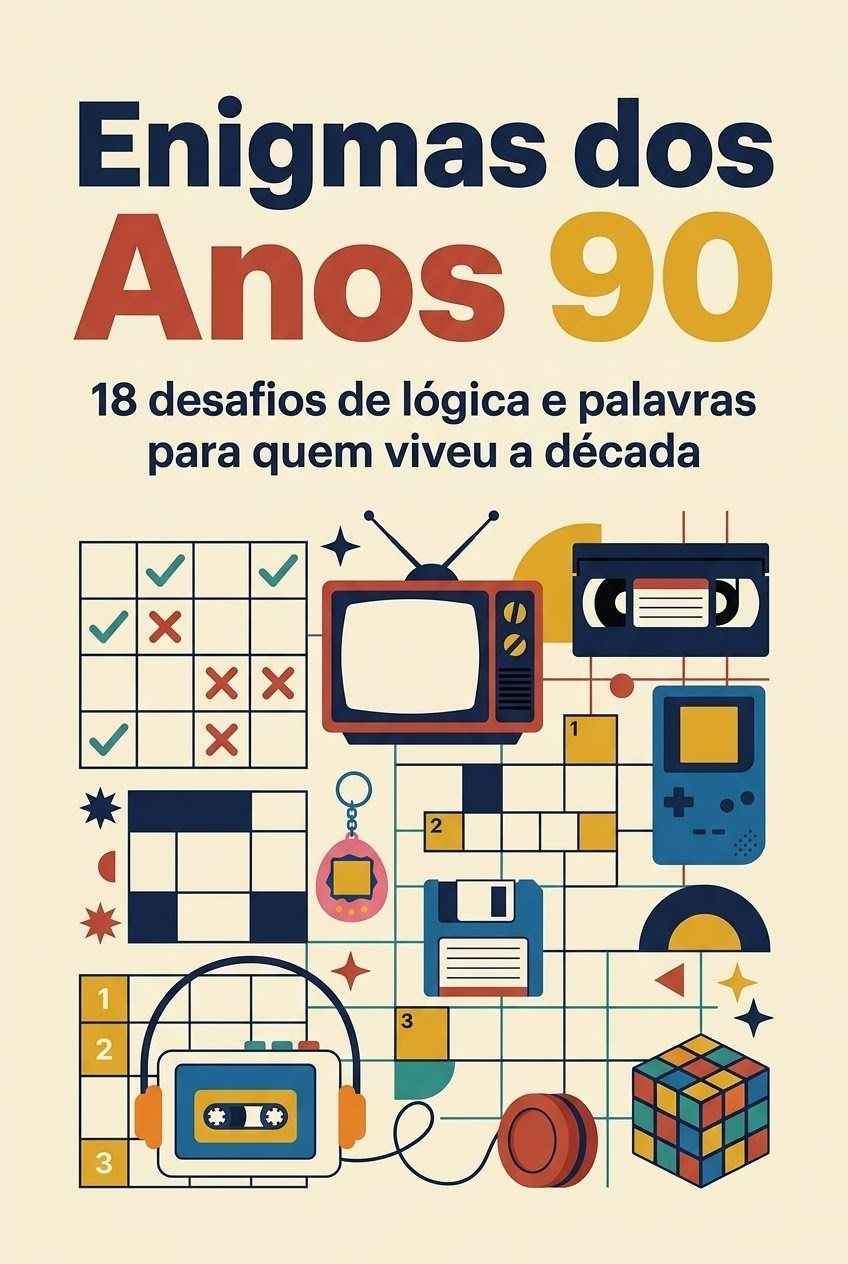
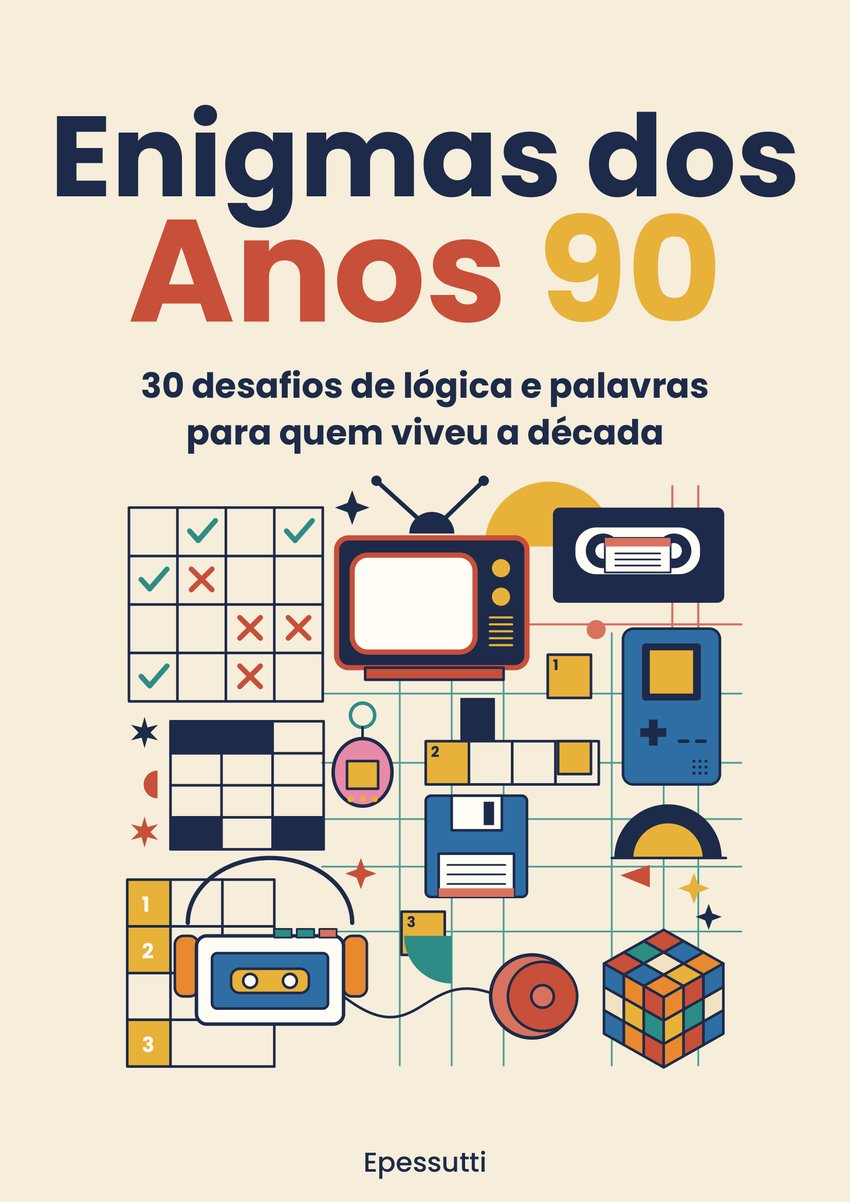
Enigmas dos Anos 90: capa nova, 30 desafios e os 9 tipos de jogo
Claude-Session: https://claude.ai/code/session_01W5N2phQqAfGMQXmJar2yUj

diff --git a/index.html b/index.html
@@ -4,7 +4,7 @@
 <meta charset="utf-8">
 <meta name="viewport" content="width=device-width, initial-scale=1">
 <title>Epessutti · Livros</title>
-<meta name="description" content="Livros do Epessutti: O Verão Brasileiro do Pippin, livro de colorir infantil com o pinguim Pippin e o mico Caju pelo Nordeste, e Enigmas dos Anos 90, livro de jogos de lógica para quem viveu os anos 90.">
+<meta name="description" content="Livros do Epessutti: O Verão Brasileiro do Pippin, livro de colorir infantil com o pinguim Pippin e o mico Caju pelo Nordeste, e Enigmas dos Anos 90, livro com 30 desafios de lógica para quem viveu os anos 90.">
 <meta property="og:title" content="Epessutti · Livros de colorir e de enigmas">
 <meta property="og:description" content="Conheça o Pippin e o Caju no Nordeste e acompanhe o lançamento de Enigmas dos Anos 90.">
 <meta property="og:type" content="website">
@@ -85,7 +85,7 @@ nav a:focus-visible,.btn:focus-visible,.buy a:focus-visible{outline:3px solid va
 .game h3{font-size:17px;margin:0 0 4px}
 .game p{color:#4a5260;font-size:15px;margin:0}
 .enig .btn{background:var(--yel);color:var(--navy);box-shadow:0 4px 0 #c9a94b}
-.vhs{aspect-ratio:848/1264;border-radius:8px;box-shadow:0 18px 40px rgba(0,0,0,.4)}
+.vhs{aspect-ratio:850/1202;border-radius:8px;box-shadow:0 18px 40px rgba(0,0,0,.4)}
 /* autor */
 .author{display:grid;grid-template-columns:auto minmax(0,1fr);gap:28px;align-items:center}
 .avatar{width:120px;height:120px;border-radius:50%;background:var(--sky);display:grid;place-items:center}
@@ -213,18 +213,21 @@ footer a{color:#fff;font-weight:700}
 
   <section class="band enig" id="enigmas">
     <div class="wrap book">
-      <div class="cover vhs"><img src="img/capa-enigmas.jpg" alt="Capa do livro Enigmas dos Anos 90: 18 desafios de lógica e palavras para quem viveu a década" width="848" height="1264"></div>
+      <div class="cover vhs"><img src="img/capa-enigmas.jpg" alt="Capa do livro Enigmas dos Anos 90: 30 desafios de lógica e palavras para quem viveu a década, por Epessutti" width="850" height="1202"></div>
       <div>
         <span class="tag">Em produção · para quem viveu os anos 90</span>
         <h2>Enigmas dos Anos 90</h2>
-        <p>São 18 desafios de lógica e palavras para quem cresceu entre fitas de vídeo, fliperama, tazos e domingo de pagode. Cada enigma tem uma única solução, que se resolve só com raciocínio, sem chute. Todo tipo de jogo vem com uma página “Como jogar” para quem nunca fez nada parecido.</p>
+        <p>São 30 desafios de lógica e palavras para quem cresceu entre fitas de vídeo, fliperama, tazos e domingo de pagode. Cada enigma tem uma única solução, que se resolve só com raciocínio, sem chute. Os desafios vão do mais fácil ao mais difícil, e todo tipo de jogo vem com uma página “Como jogar” para quem nunca fez nada parecido.</p>
         <div class="games">
-          <div class="game"><h3>Grade de Dedução</h3><p>Descubra quem fez o quê cruzando as pistas.</p></div>
-          <div class="game"><h3>Planta do Crime</h3><p>Posicione cada suspeito na planta da casa.</p></div>
-          <div class="game"><h3>Cruzada Secreta</h3><p>Palavras cruzadas com uma resposta escondida.</p></div>
           <div class="game"><h3>Caça-Palavras Ilustrado</h3><p>Ache os objetos da época pelos desenhos.</p></div>
           <div class="game"><h3>Charada de Ícones</h3><p>Junte os ícones e adivinhe o nome.</p></div>
           <div class="game"><h3>Criptograma</h3><p>Decifre os nomes escritos em código.</p></div>
+          <div class="game"><h3>Linha do Tempo</h3><p>Descubra a ordem em que tudo surgiu.</p></div>
+          <div class="game"><h3>Onde Está?</h3><p>Encontre um único item numa cena lotada.</p></div>
+          <div class="game"><h3>Cruzada Secreta</h3><p>Palavras cruzadas com uma resposta escondida.</p></div>
+          <div class="game"><h3>O Cadeado do Diário</h3><p>Descubra a senha pelas tentativas.</p></div>
+          <div class="game"><h3>Planta do Crime</h3><p>Posicione cada suspeito na planta da casa.</p></div>
+          <div class="game"><h3>Grade de Dedução</h3><p>Descubra quem fez o quê cruzando as pistas.</p></div>
         </div>
         <div class="row">
           <a class="btn" href="https://www.instagram.com/epessutti/" target="_blank" rel="noopener">Siga @epessutti para saber do lançamento</a>
